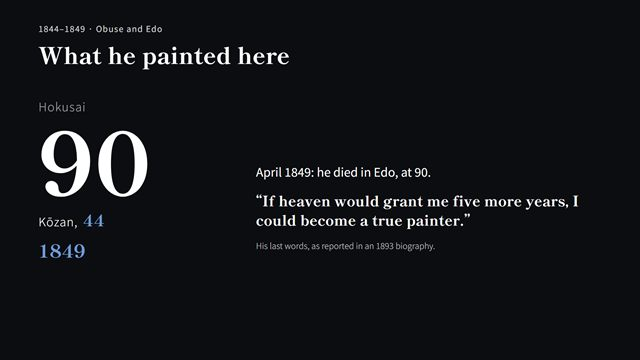
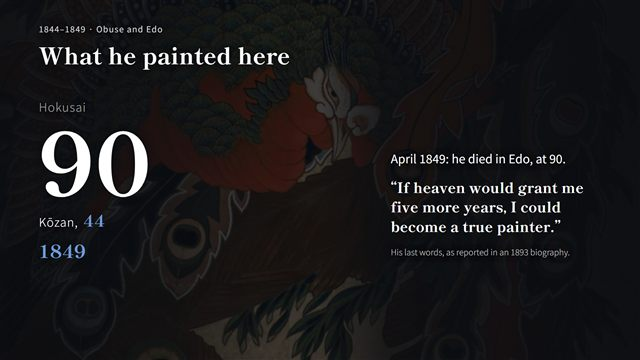
Screen 12: artworks fill the background

diff --git a/index.html b/index.html
@@ -268,6 +268,10 @@
 
 <!-- 11 小布施で描いたもの -->
 <section class="slide" data-id="late">
+  <div class="late-bg bd fade slow" data-x="1"><div class="bgp half" style="background-image:url(img/ceiling-dragon.jpg)"></div><div class="bgp half r" style="background-image:url(img/ceiling-phoenix.jpg)"></div></div>
+  <div class="late-bg bd fade slow" data-b="1" data-x="2"><div class="bgp blur" style="background-image:url(img/dotozu.jpg)"></div><div class="bgp contain" style="background-image:url(img/dotozu.jpg)"></div></div>
+  <div class="late-bg bd fade slow" data-b="2"><div class="bgp" style="background-image:url(img/gansho-phoenix.jpg)"></div></div>
+  <div class="late-scrim"></div>
   <p class="stamp"><span class="ja">1844–1849　小布施と江戸</span><span class="en">1844–1849 · Obuse and Edo</span></p>
   <h2 class="m fs hd2 rv" style="--fs:6.4"><span class="ja">小布施で描いたもの</span><span class="en">What he painted here</span></h2>
   <div class="odo">
@@ -278,27 +282,21 @@
   </div>
   <div class="works">
     <div class="wk bd" data-x="1">
-      <div class="wk-pair tri">
-        <figure class="wk-img zoomable" data-cap-ja="東町祭屋台（北斎館）" data-cap-en="The Higashimachi festival float (Hokusai Museum)"><img src="img/float-higashimachi.webp" alt="東町祭屋台"><figcaption class="wk-c"><span class="ja">東町祭屋台</span><span class="en">Higashimachi float</span></figcaption></figure>
-        <figure class="wk-img zoomable" data-cap-ja="東町祭屋台の天井絵『龍』　葛飾北斎" data-cap-en="“Dragon,” Higashimachi float ceiling · Hokusai"><img src="img/ceiling-dragon.jpg" alt="天井絵　龍"><figcaption class="wk-c"><span class="ja">天井絵『龍』</span><span class="en">Ceiling: Dragon</span></figcaption></figure>
-        <figure class="wk-img zoomable" data-cap-ja="東町祭屋台の天井絵『鳳凰』（部分）　葛飾北斎" data-cap-en="“Phoenix” (detail), Higashimachi float ceiling · Hokusai"><img src="img/ceiling-phoenix.jpg" alt="天井絵　鳳凰"><figcaption class="wk-c"><span class="ja">天井絵『鳳凰』（部分）</span><span class="en">Ceiling: Phoenix (detail)</span></figcaption></figure>
-      </div>
+      <figure class="wk-img zoomable" data-cap-ja="東町祭屋台（北斎館）" data-cap-en="The Higashimachi festival float (Hokusai Museum)"><img src="img/float-higashimachi.webp" alt="東町祭屋台"><figcaption class="wk-c"><span class="ja">東町祭屋台</span><span class="en">Higashimachi float</span></figcaption></figure>
       <p class="wk-t"><span class="ja">東町の祭屋台の天井に、『龍』と『鳳凰』。</span><span class="en">For the ceiling of the Higashimachi festival float: a dragon and a phoenix.</span></p>
+      <p class="wk-s"><span class="ja">背景：東町祭屋台の天井絵『龍』と『鳳凰』（部分）</span><span class="en">Behind: the float’s ceiling, “Dragon” and “Phoenix” (detail)</span></p>
       <span class="pin"><span class="ja">1日目　北斎館</span><span class="en">Day 1 · Hokusai Museum</span></span>
     </div>
     <div class="wk bd" data-b="1" data-x="2">
-      <div class="wk-pair">
-        <figure class="wk-img zoomable" data-cap-ja="上町祭屋台（北斎館）" data-cap-en="The Kanmachi festival float (Hokusai Museum)"><img src="img/float-kanmachi.webp" alt="上町祭屋台"><figcaption class="wk-c"><span class="ja">上町祭屋台</span><span class="en">Kanmachi float</span></figcaption></figure>
-        <figure class="wk-img zoomable" data-cap-ja="上町祭屋台の天井絵「男浪・女浪」1845年　葛飾北斎" data-cap-en="“Male and Female Waves,” Kanmachi float ceiling, 1845 · Hokusai"><img src="img/dotozu.jpg" alt="男浪・女浪"><figcaption class="wk-c"><span class="ja">天井絵「男浪・女浪」</span><span class="en">Ceiling: the two waves</span></figcaption></figure>
-      </div>
+      <figure class="wk-img zoomable" data-cap-ja="上町祭屋台（北斎館）" data-cap-en="The Kanmachi festival float (Hokusai Museum)"><img src="img/float-kanmachi.webp" alt="上町祭屋台"><figcaption class="wk-c"><span class="ja">上町祭屋台</span><span class="en">Kanmachi float</span></figcaption></figure>
       <p class="wk-t"><span class="ja">上町の祭屋台。鴻山が私財で建て、天井を北斎に任せた。大波の『男浪』と『女浪』。</span><span class="en">The Kanmachi float: Kōzan paid for it and gave Hokusai the ceiling — two great waves, “Male” and “Female.”</span></p>
       <p class="wk-s"><span class="ja">縁の花鳥は、北斎の下絵に鴻山が色を塗ったと考えられている。この年は3月から9月まで、半年あまり滞在したとみられる。</span><span class="en">The flowers and birds on the border are thought to be Kōzan’s colouring over Hokusai’s drawing. That year Hokusai seems to have stayed from March to September.</span></p>
       <span class="pin"><span class="ja">1日目　北斎館</span><span class="en">Day 1 · Hokusai Museum</span></span>
     </div>
     <div class="wk bd" data-b="2" data-x="3">
-      <figure class="wk-img zoomable" data-cap-ja="岩松院の天井絵『八方睨み鳳凰図』　葛飾北斎（画像：岩松院公式サイトより）" data-cap-en="“Phoenix glaring in eight directions,” Ganshō-in ceiling · Hokusai (image: Ganshō-in website)"><img src="img/gansho-phoenix.jpg" alt="八方睨み鳳凰図"><figcaption class="wk-c"><span class="ja">岩松院『八方睨み鳳凰図』（岩松院公式サイトより）</span><span class="en">Ganshō-in’s Phoenix (from the temple’s website)</span></figcaption></figure>
       <p class="wk-t"><span class="ja">岩松院の本堂の天井に『八方睨み鳳凰図』。畳21枚分。</span><span class="en">The Phoenix on the ceiling of Ganshō-in’s main hall: the size of 21 tatami mats.</span></p>
       <p class="wk-s"><span class="ja">完成は1848年、北斎89歳とされる。寺によれば、約1年をかけて描かれ、一度も塗り替えていない。</span><span class="en">Finished, it is thought, in 1848, when he was 89. The temple says it took about a year and has never been repainted.</span></p>
+      <p class="wk-s"><span class="ja">背景：岩松院『八方睨み鳳凰図』（岩松院公式サイトより）</span><span class="en">Behind: Ganshō-in’s Phoenix (image from the temple’s website)</span></p>
       <span class="pin"><span class="ja">2日目　岩松院</span><span class="en">Day 2 · Ganshō-in</span></span>
     </div>
     <div class="wk bd" data-b="3">

diff --git a/js/notes.js b/js/notes.js
@@ -56,7 +56,7 @@ window.KOZAN_NOTES = {
     en: 'Autumn 1842. Hokusai, 83, arrived from Edo. His host, Kōzan, was 37 — forty-six years younger.\nImagine being 37 and taking in an 83-year-old master.\nIn Edo, the Tenpō Reforms were cracking down on lavish pictures. The memorial museum says Kōzan gave him a place to paint freely; there are other theories too.\nEight years earlier, at 75, Hokusai had written: at eighty I will improve still more, at ninety reach the heart of it, at a hundred perhaps the divine — and at a hundred and ten, every dot and line will be alive.\nAt 83, he was not done.'
   },
   late: {
-    cue: { ja: '→ 86 上町屋台 → 89 岩松院 → 90 最期の言葉（数字が進む）', en: '→ 86 Kanmachi float → 89 Ganshō-in → 90 last words (the numbers move)' },
+    cue: { ja: '→ 86 上町屋台 → 89 岩松院 → 90 最期の言葉（数字が進み、背景の作品が替わる）', en: '→ 86 Kanmachi float → 89 Ganshō-in → 90 last words (numbers move, the artwork behind changes)' },
     ja: '小布施で北斎が描いたものを、年齢と一緒に追います。\n1844年、85歳。東町の祭屋台の天井に、龍と鳳凰。\n1845年、86歳。上町の祭屋台。鴻山が私財で建て、天井を北斎に任せました。大波の『男浪』と『女浪』です。縁の花鳥は、北斎の下絵に鴻山が色を塗ったと考えられています。この年は3月から9月まで、半年あまり滞在したとみられます。2つの屋台は、今日行く北斎館にあります。\n1848年ごろ、89歳。岩松院の本堂の天井に『八方睨み鳳凰図』。畳21枚分です。寺によれば、約1年をかけて描かれ、一度も塗り替えていません。\n1849年4月、北斎は江戸で亡くなります。90歳。最期に「天があと5年の命をくれたら、本物の絵描きになれるのに」と言ったと伝わります。',
     en: 'Let’s follow what he painted here, with his age.\n1844, at 85: a dragon and a phoenix for the ceiling of the Higashimachi festival float.\n1845, at 86: the Kanmachi float. Kōzan paid for it himself and gave Hokusai the ceiling — two great waves, “Male” and “Female.” The flowers and birds around the edge are thought to be Kōzan’s colouring over Hokusai’s drawing. That year Hokusai seems to have stayed from March to September. Both floats are at the Hokusai Museum, which we visit today.\nAround 1848, at 89: the Phoenix on the ceiling of Ganshō-in, the size of 21 tatami mats. The temple says it took about a year and has never been repainted.\nIn April 1849 Hokusai died in Edo, at 90. His last words, it is said: “If heaven would give me five more years, I could become a true painter.”'
   },

diff --git a/css/deck.css b/css/deck.css
@@ -239,6 +239,23 @@ figure.por-wrap{margin:0;position:relative;width:calc(var(--u)*52);height:calc(v
 .q-gloss{margin:calc(var(--u)*2.4) 0 0;font-size:calc(var(--u)*2.2);line-height:1.7;color:rgba(255,255,255,.8)}
 .meet-end{position:absolute;left:6vw;top:50%;transform:translateY(-50%);z-index:4;text-align:left}
 
+/* ---------- 11 小布施で描いたもの：背景いっぱいに作品 ---------- */
+.late-bg{position:absolute;inset:0;overflow:hidden}
+.bgp{position:absolute;inset:0;background-position:center;background-size:cover;background-repeat:no-repeat}
+.slide.active .late-bg.vis .bgp:not(.blur){animation:bgz 30s linear forwards}
+@keyframes bgz{from{transform:scale(1)}to{transform:scale(1.06)}}
+.bgp.half{right:50%}
+.bgp.half.r{left:50%;right:0;background-position:50% 35%}
+.bgp.blur{inset:-6%;filter:blur(40px) brightness(.5)}
+.bgp.contain{background-size:contain}
+.slide[data-id="late"][data-step="3"] .late-bg{filter:brightness(.35) saturate(.7);transition:filter 2s ease}
+.late-scrim{position:absolute;inset:0;pointer-events:none;
+  background:linear-gradient(90deg,rgba(11,13,17,.88) 0%,rgba(11,13,17,.55) 26%,rgba(11,13,17,.1) 42%,rgba(11,13,17,.1) 50%,rgba(11,13,17,.72) 60%,rgba(11,13,17,.92) 100%)}
+.slide[data-id="late"] .works{left:61vw}
+.slide[data-id="late"] .wk-img img{height:calc(var(--u)*22)}
+.slide[data-id="late"] .wk-q .ja{font-size:calc(var(--u)*3.6);white-space:nowrap}
+.slide[data-id="late"] .wk-t,.slide[data-id="late"] .wk-s,.slide[data-id="late"] .odo,.slide[data-id="late"] .hd2,.slide[data-id="late"] .stamp{text-shadow:0 0 calc(var(--u)*2) rgba(11,13,17,.95),0 0 4px rgba(11,13,17,.9)}
+
 /* ---------- 11 小布施で描いたもの ---------- */
 .odo{position:absolute;left:6vw;top:calc(var(--u)*27);z-index:4}
 .odo-n{font-size:calc(var(--u)*24);line-height:1;color:#fff;font-variant-numeric:tabular-nums}
@@ -545,6 +562,12 @@ html.art:not(.inspect) .slide.active .layer.vis .fit,html.art:not(.inspect) .sli
   .pair{gap:calc(var(--u)*34)}
   .pair .who .fs{font-size:calc(var(--u)*22)!important}
   .gap46{top:calc(var(--u)*7);font-size:calc(var(--u)*9)}
+  .slide[data-id="late"] .works{left:6vw}
+  .slide[data-id="late"] .wk-img img{height:calc(var(--u)*18)}
+  .slide[data-id="late"] .wk-q .ja{font-size:calc(var(--u)*5)}
+  .bgp.half{right:0;bottom:50%}
+  .bgp.half.r{left:0;top:50%;bottom:0}
+  .late-scrim{background:linear-gradient(180deg,rgba(11,13,17,.8) 0%,rgba(11,13,17,.35) 30%,rgba(11,13,17,.55) 45%,rgba(11,13,17,.9) 62%,rgba(11,13,17,.95) 100%)}
   .famine-l .fit{left:50%;top:44%}
   .famine-l .cap{left:6vw;right:6vw;max-width:none;text-align:left;top:calc(var(--u)*34);bottom:auto}
   .hoo-l .fit{left:50%}
